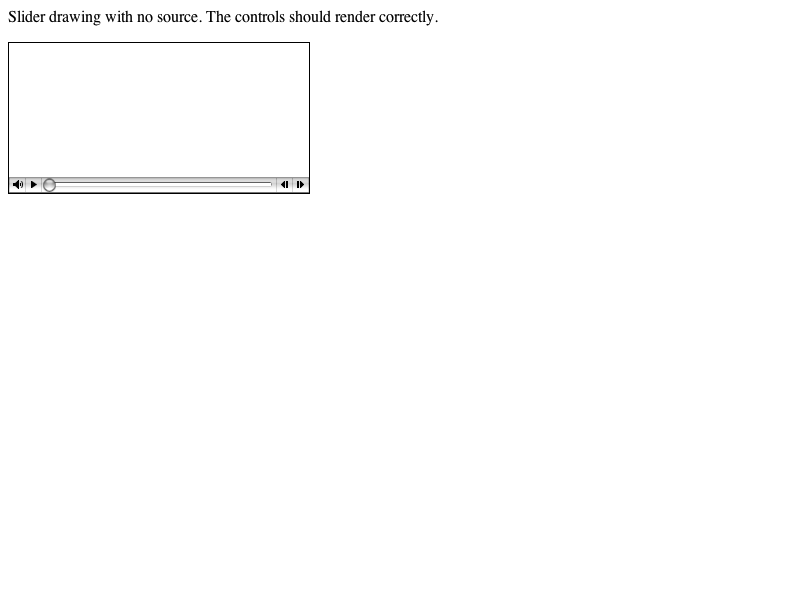
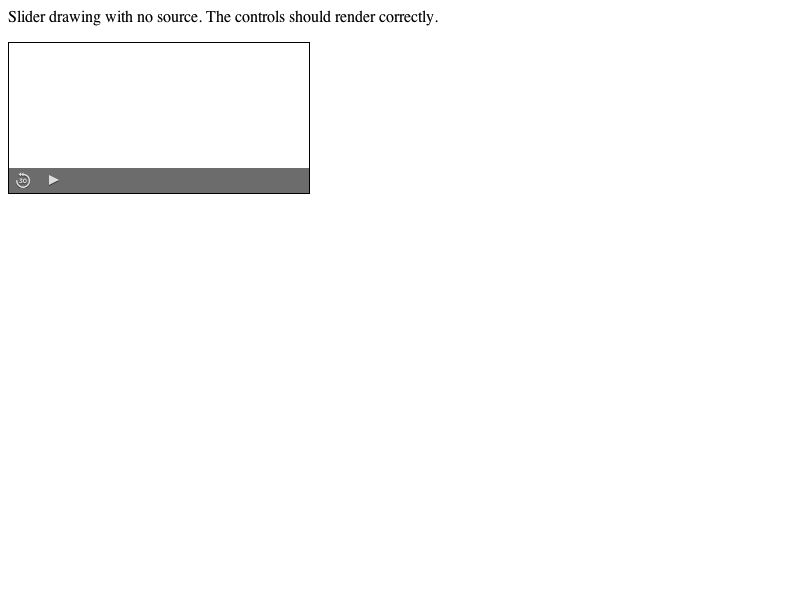
WebCore:
2009-07-08  Pierre d'Herbemont  <pdherbemont@apple.com>

        Reviewed by Simon Fraser.

        https://bugs.webkit.org/show_bug.cgi?id=27100
        <rdar://problem/7042621>

        Don't display "loading" in the <video> controller when
        there is no src specified.

        * rendering/MediaControlElements.cpp:
        (WebCore::MediaControlStatusDisplayElement::update): The only
        way to find out if we have an element is currentSrc(). networkState()
        will always report LOADING according to the spec.

LayoutTests:

2009-07-08  Pierre d'Herbemont  <pdherbemont@apple.com>

        Reviewed by Simon Fraser.

        https://bugs.webkit.org/show_bug.cgi?id=27100

        Reenable media/video-empty-source.html. Test the controls
        look when there is no src specified in a <video> element.

        * platform/mac-leopard/media/video-empty-source-expected.checksum:
        * platform/mac-leopard/media/video-empty-source-expected.png:
        * platform/mac-leopard/media/video-empty-source-expected.txt: Copied from LayoutTests/platform/mac/media/video-empty-source-expected.txt.
        * platform/mac-snowleopard/Skipped:
        * platform/mac/media/video-empty-source-expected.checksum:
        * platform/mac/media/video-empty-source-expected.png:
        * platform/mac/media/video-empty-source-expected.txt:

git-svn-id: https://svn.webkit.org/repository/webkit/trunk@45655 268f45cc-cd09-0410-ab3c-d52691b4dbfc

Changed region(s): [[0.0, 0.27, 0.4062, 0.33]]

diff --git a/WebCore/rendering/MediaControlElements.cpp b/WebCore/rendering/MediaControlElements.cpp
@@ -200,7 +200,8 @@ void MediaControlStatusDisplayElement::update()
 
     // Get the new state that we'll have to display.
     StateBeingDisplayed newStateToDisplay = Nothing;
-    if (m_mediaElement->readyState() != HTMLMediaElement::HAVE_ENOUGH_DATA)
+
+    if (m_mediaElement->readyState() != HTMLMediaElement::HAVE_ENOUGH_DATA && !m_mediaElement->currentSrc().isEmpty())
         newStateToDisplay = Loading;
     else if (m_mediaElement->isStreaming())
         newStateToDisplay = LiveBroadcast;
